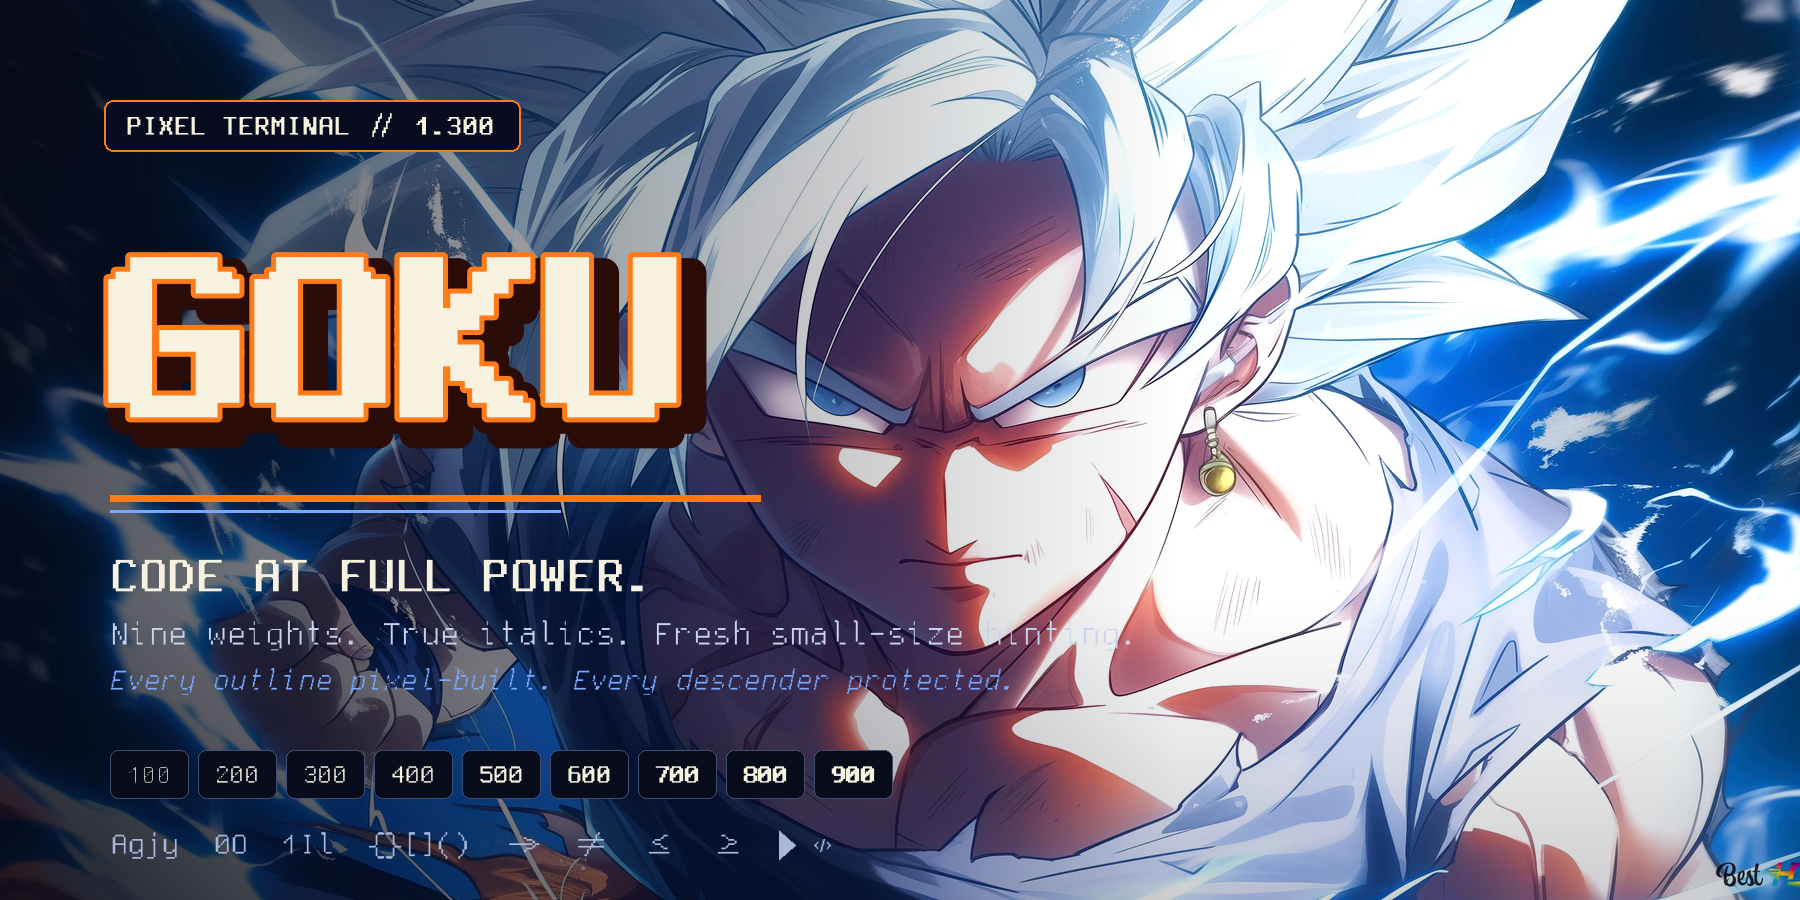
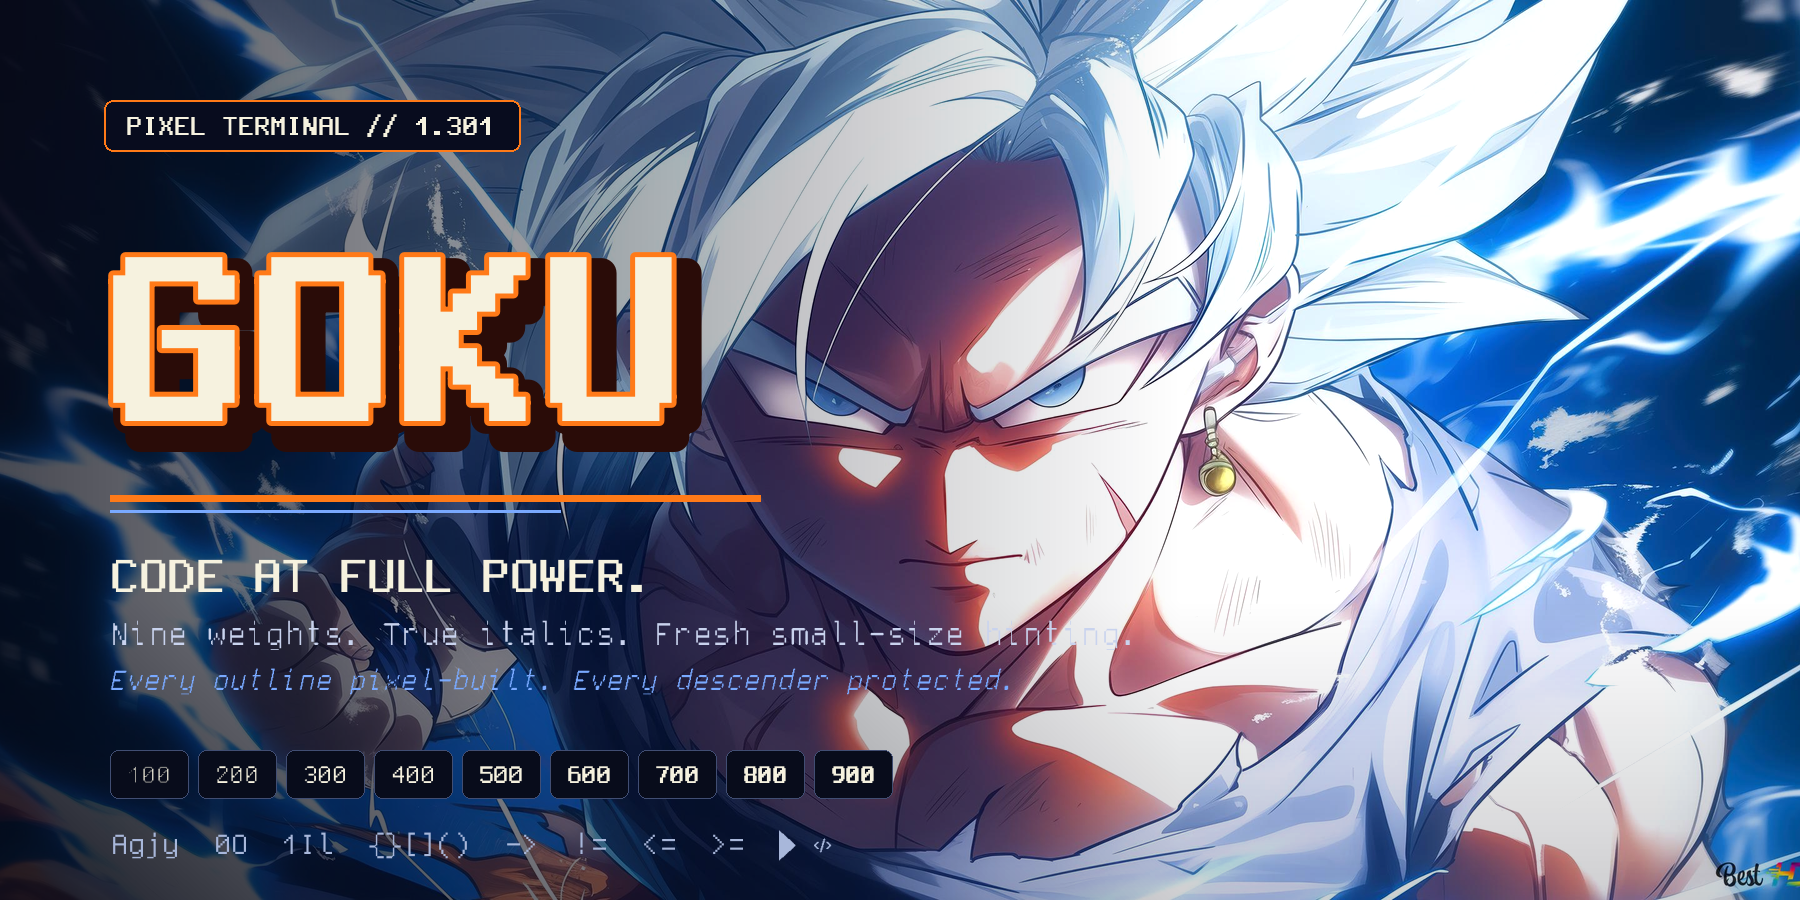
Release Goku 1.301

diff --git a/src/design.py b/src/design.py
@@ -5,7 +5,7 @@ from __future__ import annotations
 
 FAMILY = "Goku"
 POSTSCRIPT_STEM = "Goku"
-VERSION = "1.300"
+VERSION = "1.301"
 
 # A fixed timestamp makes clean builds byte-for-byte reproducible. TrueType
 # timestamps count seconds from 1904-01-01; SOURCE_DATE_EPOCH is Unix time.

diff --git a/src/render_promo_artwork.py b/src/render_promo_artwork.py
@@ -24,7 +24,7 @@ CYAN = "#73e0d1"
 PURPLE = "#b58cff"
 PINK = "#ff78b4"
 BG = "#070a14"
-VERSION = "1.300"
+VERSION = "1.301"
 
 
 class Faces:

diff --git a/CHANGELOG.md b/CHANGELOG.md
@@ -1,6 +1,17 @@
 # Changelog
 
-## 1.300 — pending GitHub release
+## 1.301 — pending GitHub release
+
+- Raised the universal outline grid to 24x42, exactly 3x Gohu's native 8x14
+  grid, for finer Nerd Font and imported Unicode symbols without stretching
+  the original text proportions.
+- Removed programming ligatures so operators always remain separate cursor
+  cells.
+- Reworked small-size hinting across all 18 numeric upright and italic faces.
+- Regenerated the terminal previews with exact cell-height prompt, current-line,
+  and status backgrounds and aligned Powerline caps and separators.
+
+## 1.300
 
 - Added explicit cell-edge clearance for all 600 ordinary Gohu text glyphs in
   Regular, Bold, and their italics.

diff --git a/README.md b/README.md
@@ -187,12 +187,12 @@ GitHub Release. The release workflow attaches `Goku.ttc` directly, together
 with its SHA-256 checksum, manifest, notices, and GohuFont license:
 
 ```sh
-git tag -a v1.300 -m "Goku 1.300"
-git push origin v1.300
+git tag -a v1.301 -m "Goku 1.301"
+git push origin v1.301
 ```
 
 The same workflow can be started manually from **Actions → Goku release → Run
-workflow**. The optional tag field can be left blank to derive `v1.300` from
+workflow**. The optional tag field can be left blank to derive `v1.301` from
 the generated release manifest. If that tag does not exist yet, the manual run
 creates it at the selected branch commit before publishing the release.
 

diff --git a/PLAN.md b/PLAN.md
@@ -1,9 +1,9 @@
 # Goku development plan
 
-Last updated: 2026-08-19
-Current release candidate: 1.300
-Active milestone: text cell-edge clearance
-Active task: live-test the validated 1.300 collection in Kitty
+Last updated: 2026-08-20
+Current release candidate: 1.301
+Active milestone: high-resolution pixel-grid release
+Active task: publish the validated 1.301 collection
 
 ## Mission
 
@@ -173,7 +173,7 @@ Acceptance criteria:
 
 ## P2 — Pixel-perfect terminal graphics
 
-Target release: 1.300.
+Target release: 1.301.
 
 Create Goku-native, parameterized terminal graphics rather than depending on
 whatever geometry arrives through the icon patcher.

diff --git a/RELEASE_NOTES.md b/RELEASE_NOTES.md
@@ -1,6 +1,6 @@
-# Goku 1.300
+# Goku 1.301
 
-Goku 1.300 gives ordinary text deliberate breathing room inside terminal
+Goku 1.301 gives ordinary text deliberate breathing room inside terminal
 cells. The sole release file, `Goku.ttc`, contains nine upright weights (`100`
 through `900`) and nine matching italics, all built on the universal pixel
 grid.
